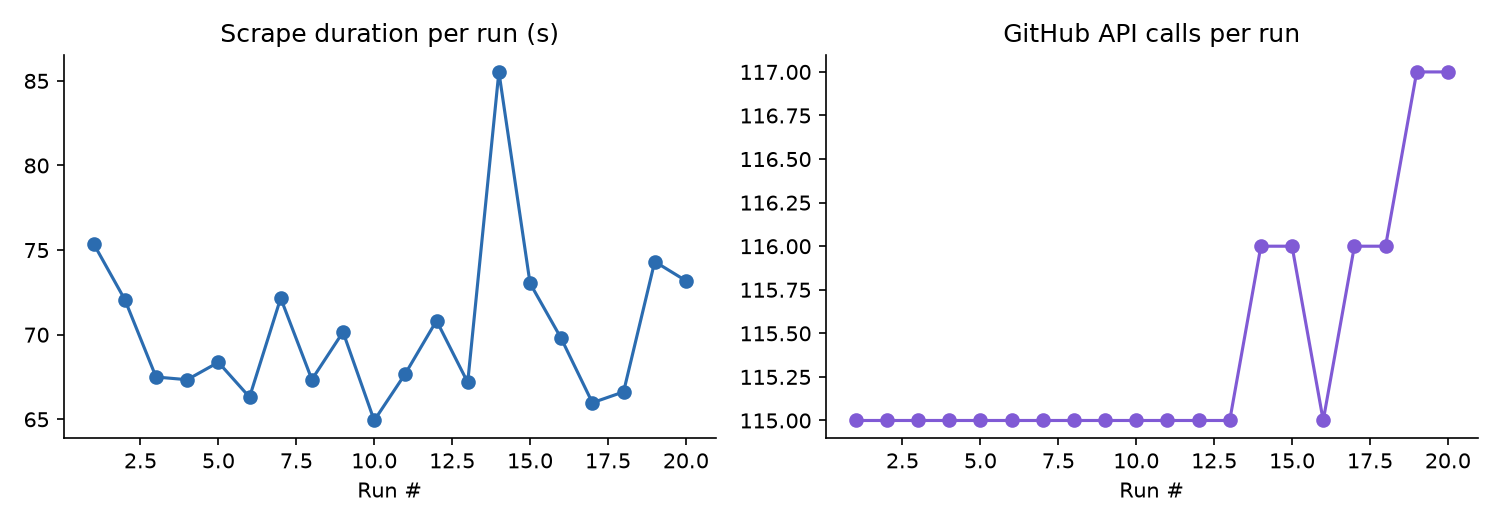
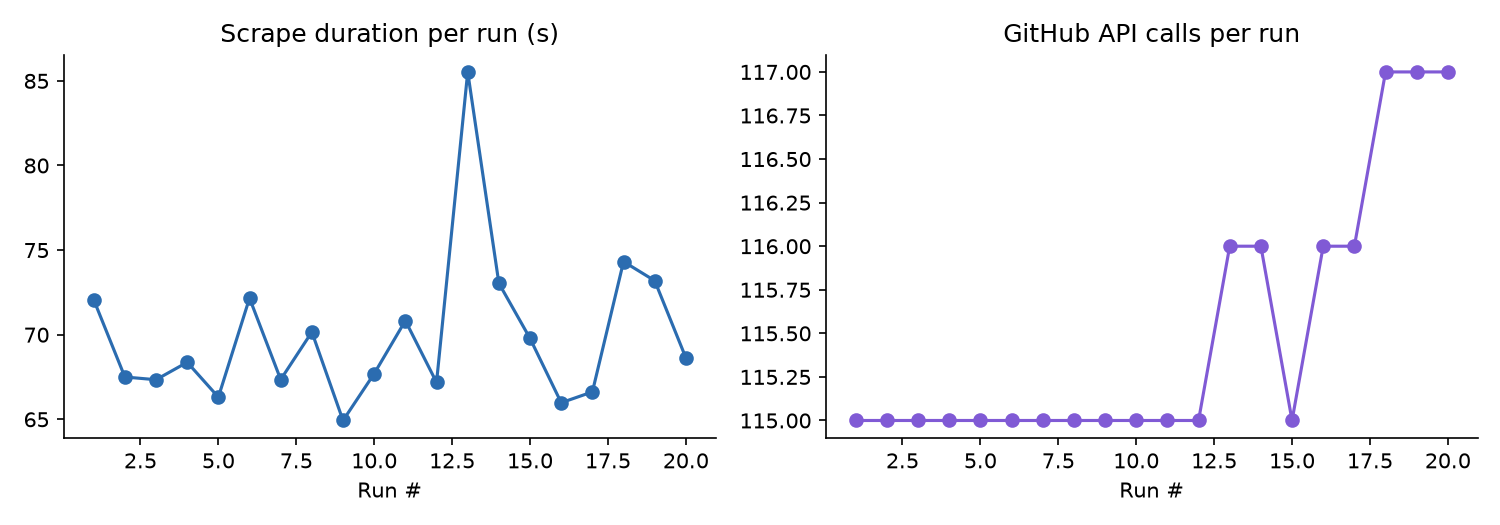
Weekly issue tracker refresh

diff --git a/README.md b/README.md
@@ -81,9 +81,9 @@ See [CONTRIBUTING.md](CONTRIBUTING.md) for the full contributor workflow — inc
 
 <!-- TRACKER:START -->
 
-_Last updated: 2026-09-25 17:14 UTC_
+_Last updated: 2026-09-25 20:30 UTC_
 
-_Tracking **18** upstream repos, **370** relevant open issues._
+_Tracking **18** upstream repos, **369** relevant open issues._
 
 ![Open issues by repo and score](assets/issues_by_repo.png)
 
@@ -296,7 +296,7 @@ _Tracking **18** upstream repos, **370** relevant open issues._
 
 <!-- METRICS:START -->
 
-_Last run: 2026-09-25 17:13 UTC, took **73.2s**, **117** GitHub API calls, **4883/5000** rate limit remaining._
+_Last run: 2026-09-25 20:29 UTC, took **68.6s**, **117** GitHub API calls, **4883/5000** rate limit remaining._
 
 ![Scrape metrics trend](assets/metrics_trend.png)
 
